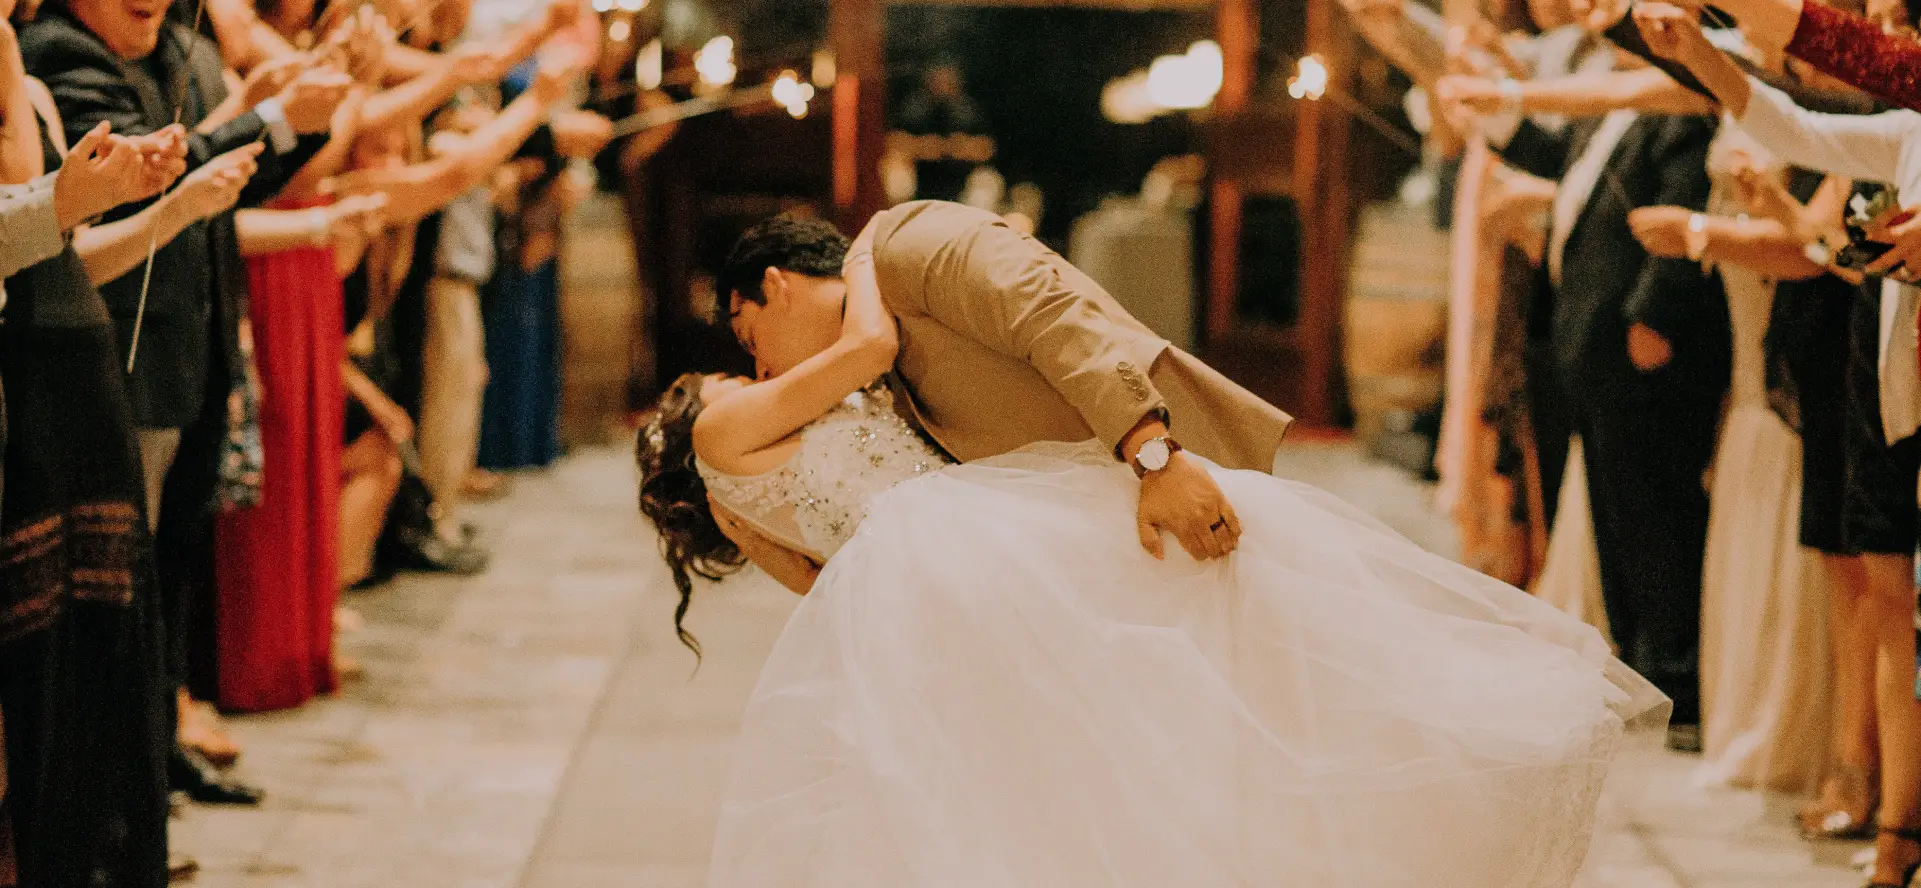
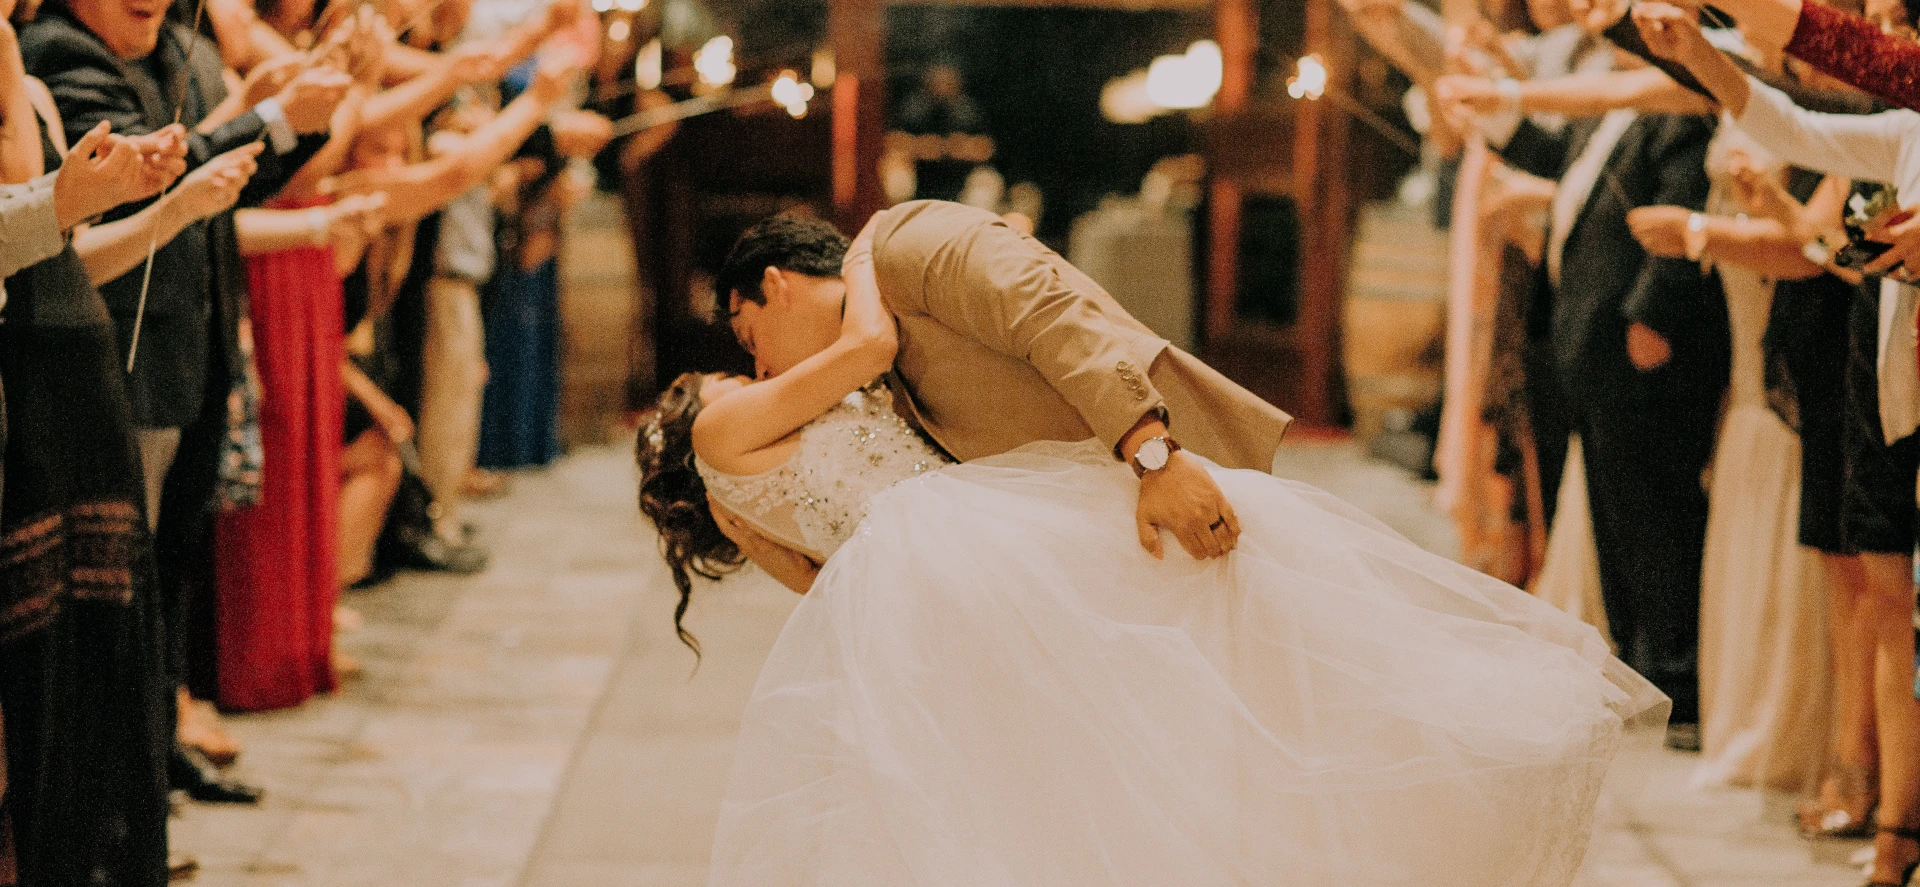
Slider IMG Responsive

diff --git a/index.html b/index.html
@@ -157,13 +157,13 @@
 			</div>
 			<div class="carousel-inner">
 				<div class="carousel-item active">
-					<img src="./assets/images/slider/ryoji-iwata-business.webp" class="d-block w-100" alt="Homme marchant dans la rue">
+					<img src="./assets/images/slider/ryoji-iwata-business.webp" srcset="./assets/images/slider/ryoji-iwata-business.webp 1920w, ./assets/images/slider/ryoji-iwata-business-tablet.webp 1000w, ./assets/images/slider/ryoji-iwata-business-mobile.webp 500w" class="d-block w-100" alt="Homme marchant dans la rue">
 				</div>
 				<div class="carousel-item">
-					<img src="./assets/images/slider/nicholas-green-concert.webp" class="d-block w-100" alt="Jeunes s'amusant à un événement">
+					<img src="./assets/images/slider/nicholas-green-concert.webp" srcset="./assets/images/slider/nicholas-green-concert.webp 1920w, ./assets/images/slider/nicholas-green-concert-tablet.webp 1000w, ./assets/images/slider/nicholas-green-concert-mobile.webp 500w" class="d-block w-100" alt="Jeunes s'amusant à un événement">
 				</div>
 				<div class="carousel-item">
-					<img src="./assets/images/slider/edward-cisneros-mariage.webp" class="d-block w-100" alt="Mariés lors de leur bal de mariage">
+					<img src="./assets/images/slider/edward-cisneros-mariage.webp" srcset="./assets/images/slider/edward-cisneros-mariage.webp 1920w, ./assets/images/slider/edward-cisneros-mariage-tablet.webp 1000w, ./assets/images/slider/edward-cisneros-mariage-mobile.webp 500w" class="d-block w-100" alt="Mariés lors de leur bal de mariage">
 				</div>
 			</div>
 			<button class="carousel-control-prev" type="button" data-bs-target="#carouselExampleIndicators" data-bs-slide="prev">
